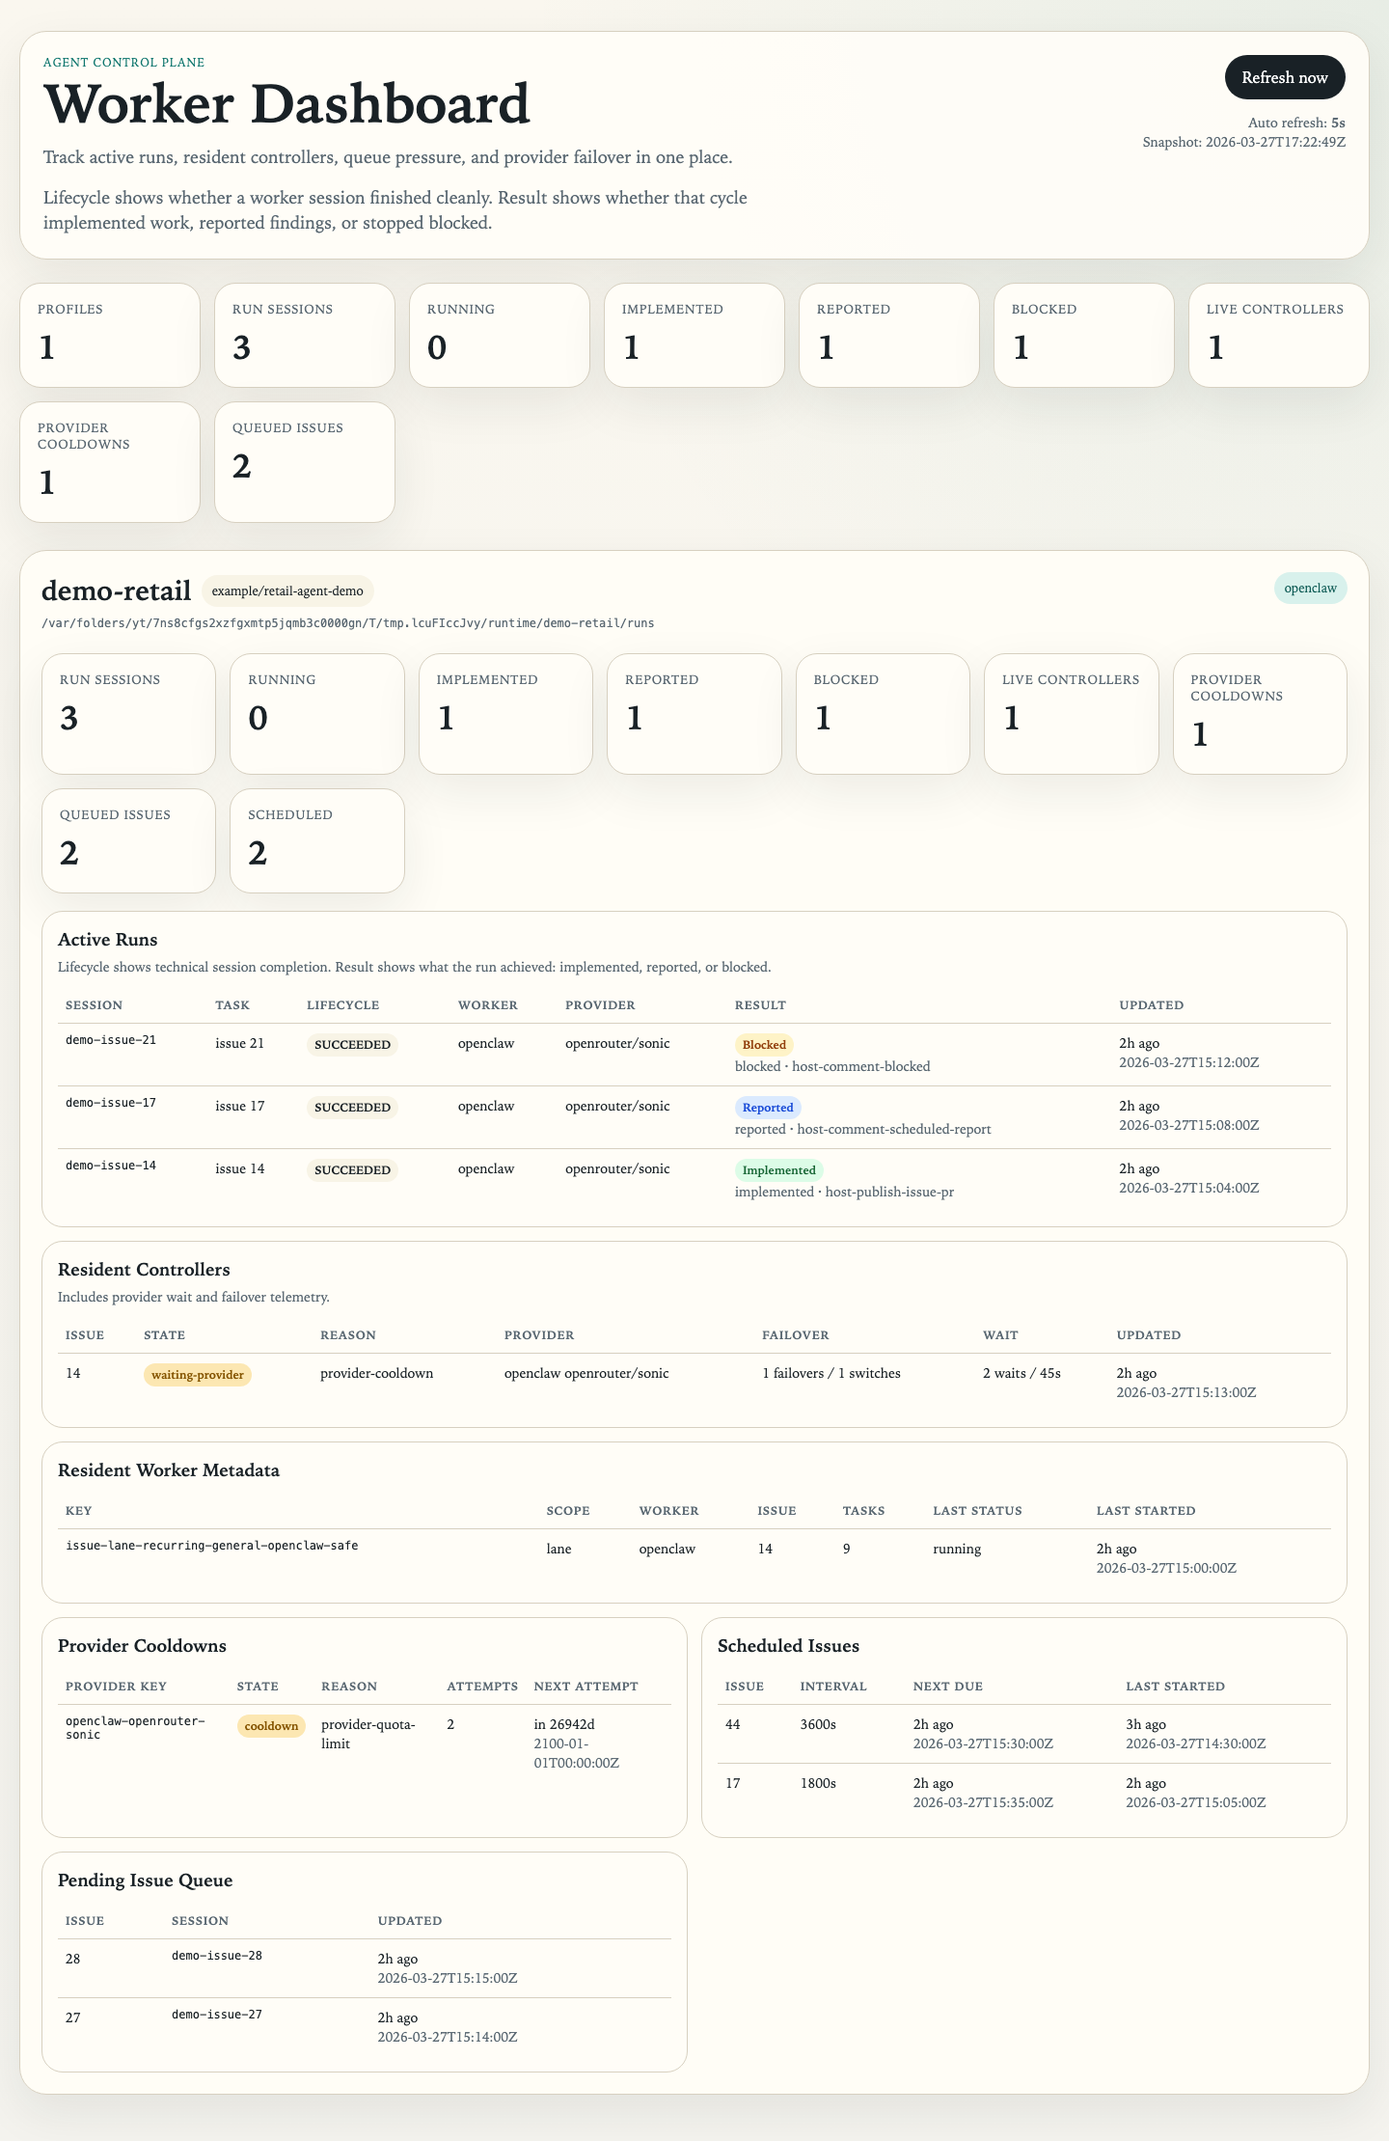
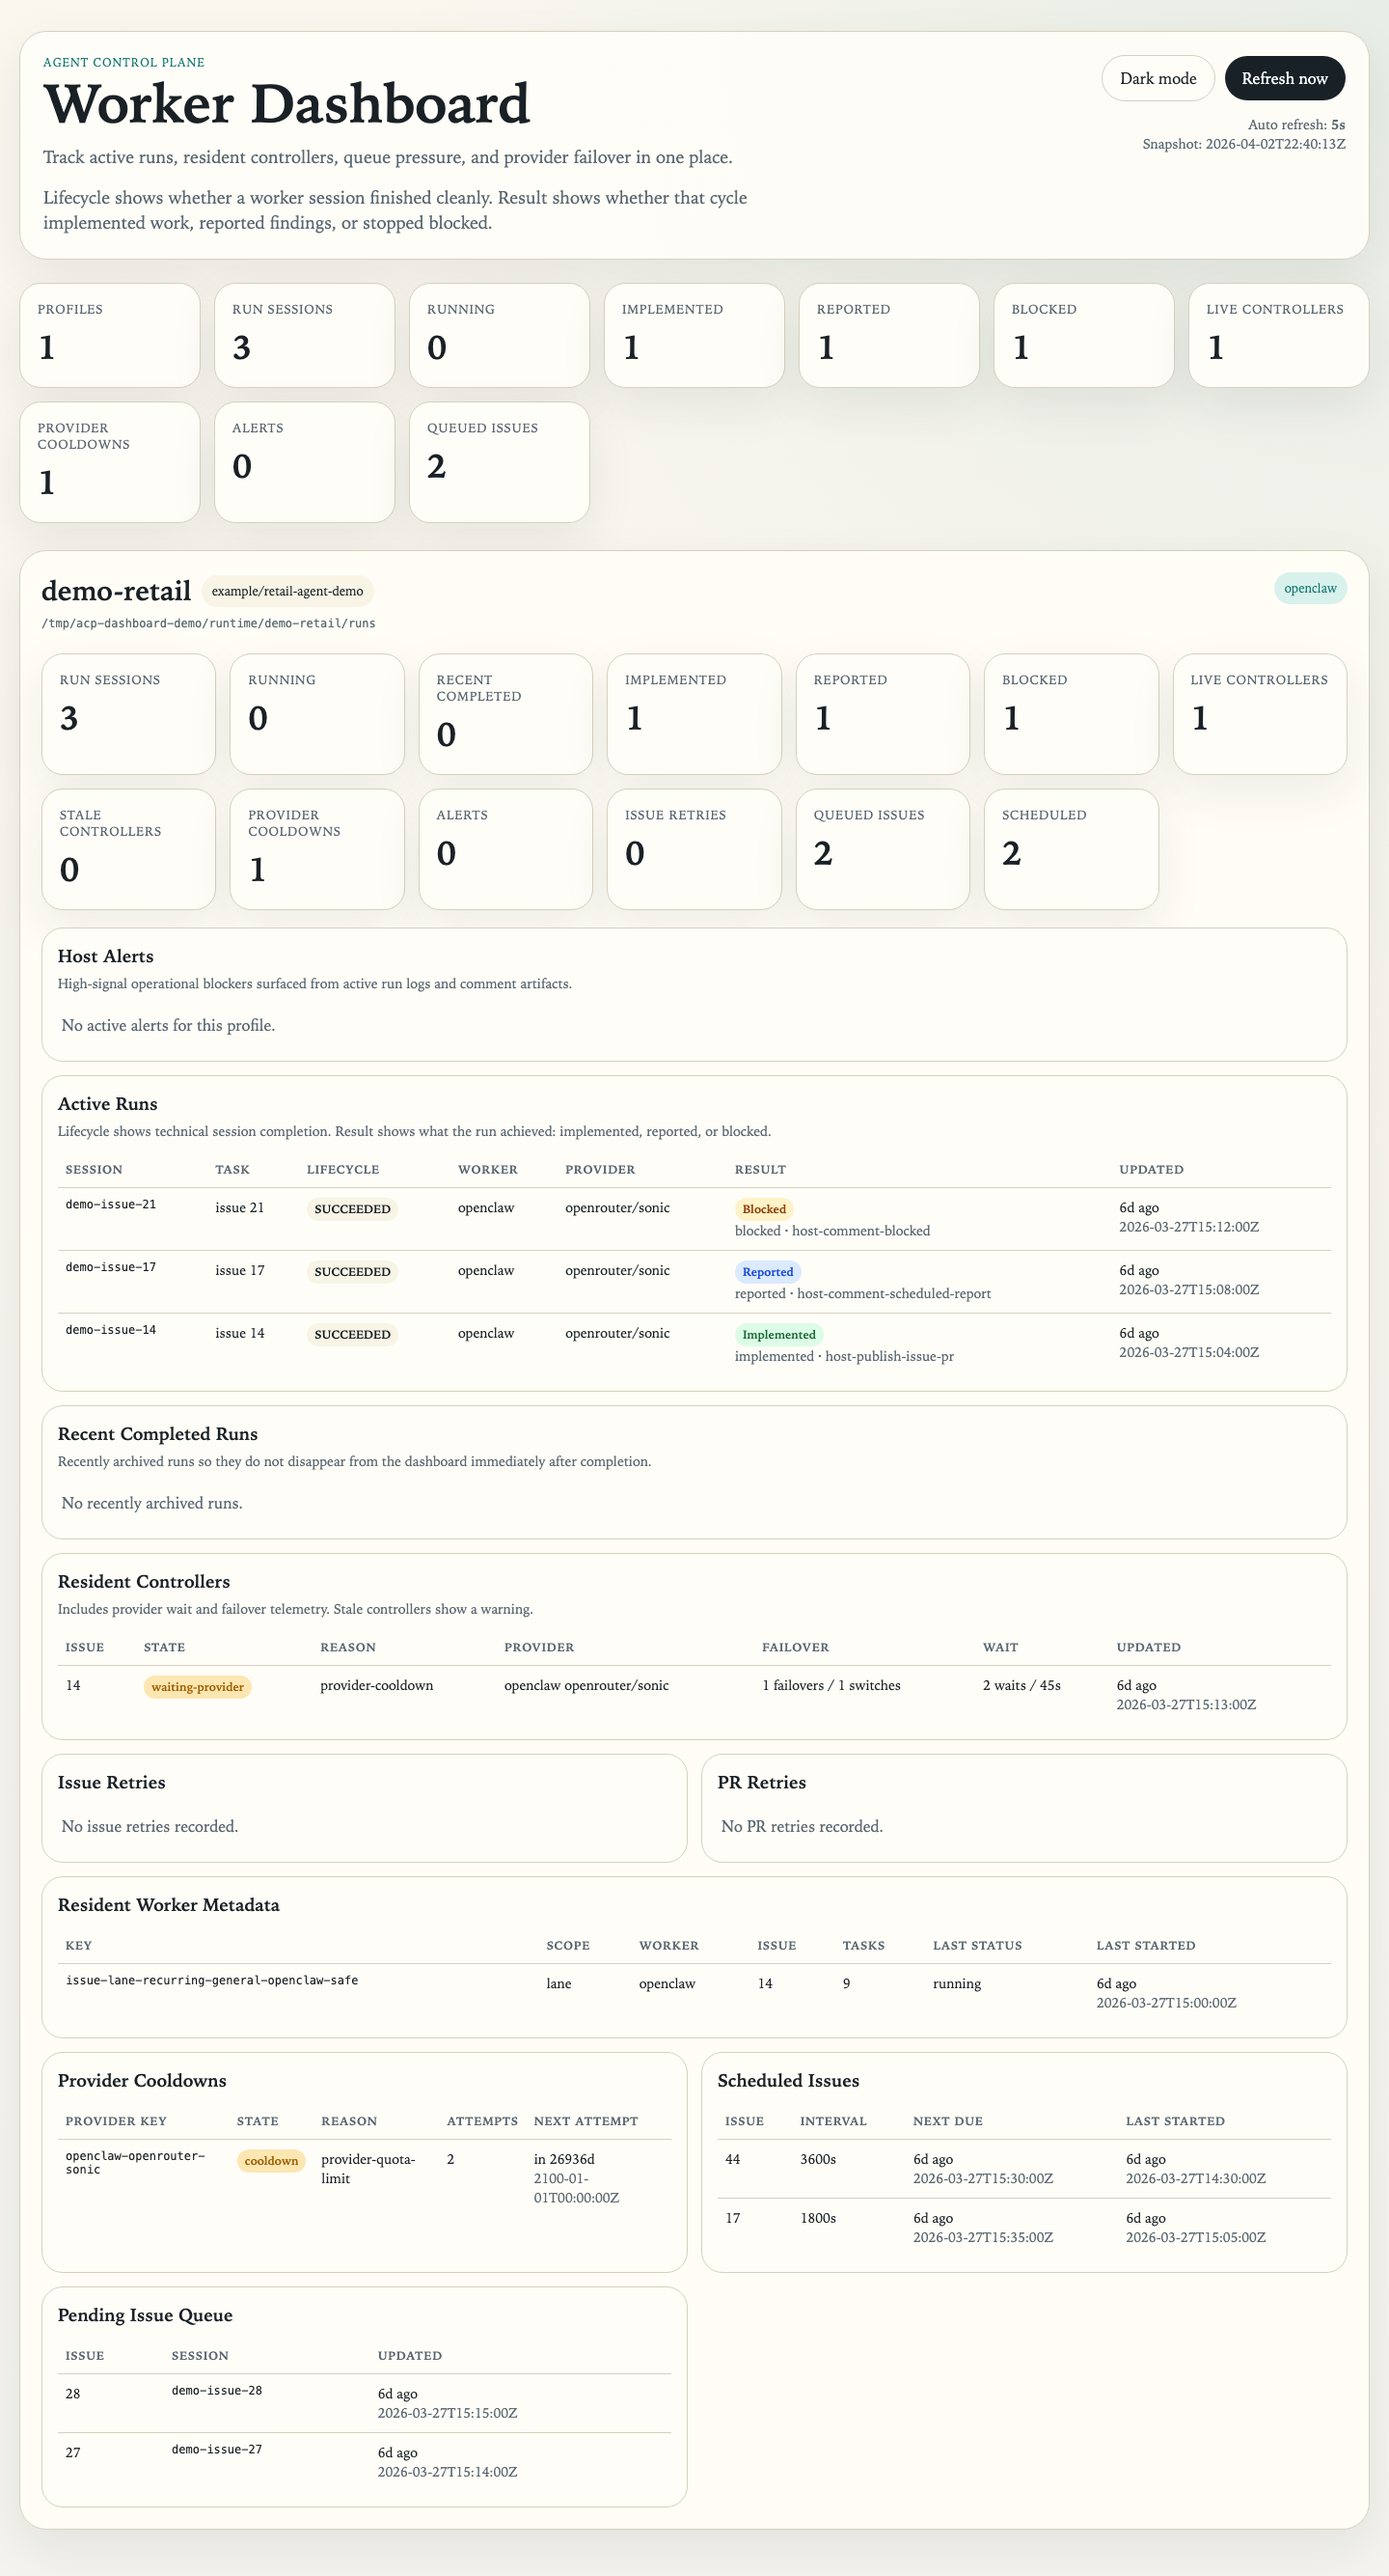
Add dark mode to dashboard and refresh demo media with clean paths
- Add dark/light mode toggle to the dashboard with localStorage persistence
  and system-preference detection (app.js, index.html, styles.css)
- Fix render-dashboard-demo-media.sh to use fixed /tmp/acp-dashboard-demo path
  instead of mktemp — removes macOS user-specific temp hash from demo screenshots
- Regenerate assets/readme/dashboard-demo.png and dashboard-demo.gif with the
  clean path and updated dashboard UI

diff --git a/tools/dashboard/styles.css b/tools/dashboard/styles.css
@@ -12,6 +12,56 @@
   --danger: #b42318;
   --danger-soft: #fdd8d2;
   --shadow: 0 18px 50px rgba(25, 33, 38, 0.08);
+  --button-bg: var(--ink);
+  --button-ink: #ffffff;
+  --button-hover: #0f1720;
+  --hero-bg: rgba(255, 253, 247, 0.92);
+  --profile-bg: rgba(255, 253, 247, 0.94);
+  --body-gradient-top: rgba(15, 118, 110, 0.08);
+  --body-gradient-bottom: #faf7ef;
+  --theme-toggle-bg: var(--panel);
+  --theme-toggle-ink: var(--ink);
+  --theme-toggle-line: var(--line);
+  --theme-toggle-hover: var(--panel-strong);
+  --reported-soft: #dbeafe;
+  --reported-ink: #1d4ed8;
+  --implemented-soft: #dcfce7;
+  --implemented-ink: #166534;
+  --blocked-soft: #fef3c7;
+  --blocked-ink: #92400e;
+}
+
+:root[data-theme="dark"] {
+  --bg: #0d1418;
+  --panel: #142026;
+  --panel-strong: #1a2a31;
+  --ink: #ebf1f3;
+  --muted: #9ab0bb;
+  --line: #2a3c44;
+  --accent: #5ad4c7;
+  --accent-soft: #183d3a;
+  --warn: #f4c35f;
+  --warn-soft: #4d3a12;
+  --danger: #ff8a80;
+  --danger-soft: #4a2220;
+  --shadow: 0 24px 60px rgba(0, 0, 0, 0.32);
+  --button-bg: #ebf1f3;
+  --button-ink: #0d1418;
+  --button-hover: #d7e2e6;
+  --hero-bg: rgba(20, 32, 38, 0.92);
+  --profile-bg: rgba(20, 32, 38, 0.94);
+  --body-gradient-top: rgba(90, 212, 199, 0.12);
+  --body-gradient-bottom: #10181d;
+  --theme-toggle-bg: #1d2d35;
+  --theme-toggle-ink: #ebf1f3;
+  --theme-toggle-line: #35505b;
+  --theme-toggle-hover: #23363f;
+  --reported-soft: #1b3552;
+  --reported-ink: #9fc8ff;
+  --implemented-soft: #173a2b;
+  --implemented-ink: #85ddb1;
+  --blocked-soft: #4a3711;
+  --blocked-ink: #f4c35f;
 }
 
 * {
@@ -22,8 +72,8 @@ body {
   margin: 0;
   font-family: "Iowan Old Style", "Palatino Linotype", "Book Antiqua", serif;
   background:
-    radial-gradient(circle at top right, rgba(15, 118, 110, 0.08), transparent 34%),
-    linear-gradient(180deg, #faf7ef 0%, var(--bg) 100%);
+    radial-gradient(circle at top right, var(--body-gradient-top), transparent 34%),
+    linear-gradient(180deg, var(--body-gradient-bottom) 0%, var(--bg) 100%);
   color: var(--ink);
 }
 
@@ -41,7 +91,7 @@ body {
   padding: 24px;
   border: 1px solid var(--line);
   border-radius: 28px;
-  background: rgba(255, 253, 247, 0.92);
+  background: var(--hero-bg);
   box-shadow: var(--shadow);
 }
 
@@ -75,19 +125,42 @@ body {
   align-items: flex-end;
 }
 
+.hero-controls {
+  display: flex;
+  gap: 10px;
+  align-items: center;
+  flex-wrap: wrap;
+  justify-content: flex-end;
+}
+
 button {
   appearance: none;
   border: 0;
   border-radius: 999px;
   padding: 12px 18px;
   font: inherit;
-  background: var(--ink);
-  color: white;
+  background: var(--button-bg);
+  color: var(--button-ink);
   cursor: pointer;
+  transition: background 140ms ease, color 140ms ease, border-color 140ms ease, transform 140ms ease;
 }
 
 button:hover {
-  background: #0f1720;
+  background: var(--button-hover);
+}
+
+button:active {
+  transform: translateY(1px);
+}
+
+#theme-toggle {
+  background: var(--theme-toggle-bg);
+  color: var(--theme-toggle-ink);
+  border: 1px solid var(--theme-toggle-line);
+}
+
+#theme-toggle:hover {
+  background: var(--theme-toggle-hover);
 }
 
 .meta {
@@ -135,7 +208,7 @@ button:hover {
   padding: 22px;
   border-radius: 28px;
   border: 1px solid var(--line);
-  background: rgba(255, 253, 247, 0.94);
+  background: var(--profile-bg);
   box-shadow: var(--shadow);
 }
 
@@ -183,12 +256,12 @@ button:hover {
 
 .badge.good {
   background: var(--accent-soft);
-  color: #0d5a54;
+  color: var(--accent);
 }
 
 .badge.warn {
   background: var(--warn-soft);
-  color: #855500;
+  color: var(--warn);
 }
 
 .badge.danger {
@@ -243,8 +316,8 @@ button:hover {
 }
 
 .alert-card.warn {
-  border-color: #e7c76d;
-  background: #fff6dd;
+  border-color: color-mix(in srgb, var(--warn) 45%, var(--line));
+  background: color-mix(in srgb, var(--warn-soft) 82%, var(--panel) 18%);
 }
 
 .alert-card h4 {
@@ -323,7 +396,7 @@ th {
 .status-pill.launching,
 .status-pill.reconciling {
   background: var(--accent-soft);
-  color: #0d5a54;
+  color: var(--accent);
 }
 
 .status-pill.waiting-provider,
@@ -332,7 +405,7 @@ th {
 .status-pill.idle,
 .status-pill.sleeping {
   background: var(--warn-soft);
-  color: #855500;
+  color: var(--warn);
 }
 
 .status-pill.FAILED,
@@ -343,19 +416,19 @@ th {
 }
 
 .status-pill.implemented {
-  background: #dcfce7;
-  color: #166534;
+  background: var(--implemented-soft);
+  color: var(--implemented-ink);
 }
 
 .status-pill.reported,
 .status-pill.completed {
-  background: #dbeafe;
-  color: #1d4ed8;
+  background: var(--reported-soft);
+  color: var(--reported-ink);
 }
 
 .status-pill.blocked {
-  background: #fef3c7;
-  color: #92400e;
+  background: var(--blocked-soft);
+  color: var(--blocked-ink);
 }
 
 .status-pill.failed,
@@ -366,7 +439,7 @@ th {
 
 .status-pill.running {
   background: var(--accent-soft);
-  color: #0d5a54;
+  color: var(--accent);
 }
 
 .empty-state {
@@ -385,6 +458,10 @@ th {
     align-items: flex-start;
     justify-content: flex-start;
     text-align: left;
+  }
+
+  .hero-controls {
+    justify-content: flex-start;
   }
 
   .panel.half,

diff --git a/tools/dashboard/app.js b/tools/dashboard/app.js
@@ -1,9 +1,56 @@
 const refreshButton = document.querySelector("#refresh-button");
+const themeToggleButton = document.querySelector("#theme-toggle");
 const generatedAtNode = document.querySelector("#generated-at");
 const overviewNode = document.querySelector("#overview");
 const profilesNode = document.querySelector("#profiles");
 const seenAlertIds = new Set();
 let notificationPermissionRequested = false;
+const THEME_STORAGE_KEY = "acp-dashboard-theme";
+
+function systemPrefersDark() {
+  return typeof window.matchMedia === "function" && window.matchMedia("(prefers-color-scheme: dark)").matches;
+}
+
+function currentThemePreference() {
+  try {
+    const stored = window.localStorage.getItem(THEME_STORAGE_KEY);
+    if (stored === "light" || stored === "dark") return stored;
+  } catch (_error) {
+    // Ignore storage access issues and fall back to system preference.
+  }
+  return systemPrefersDark() ? "dark" : "light";
+}
+
+function updateThemeToggleLabel(theme) {
+  if (!themeToggleButton) return;
+  const nextTheme = theme === "dark" ? "light" : "dark";
+  const label = nextTheme === "dark" ? "Dark mode" : "Light mode";
+  themeToggleButton.textContent = label;
+  themeToggleButton.setAttribute("aria-label", `Switch to ${label.toLowerCase()}`);
+}
+
+function applyTheme(theme) {
+  document.documentElement.dataset.theme = theme;
+  updateThemeToggleLabel(theme);
+}
+
+function persistTheme(theme) {
+  try {
+    window.localStorage.setItem(THEME_STORAGE_KEY, theme);
+  } catch (_error) {
+    // Ignore storage access issues.
+  }
+}
+
+function initializeTheme() {
+  applyTheme(currentThemePreference());
+  if (!themeToggleButton) return;
+  themeToggleButton.addEventListener("click", () => {
+    const nextTheme = document.documentElement.dataset.theme === "dark" ? "light" : "dark";
+    applyTheme(nextTheme);
+    persistTheme(nextTheme);
+  });
+}
 
 function relativeTime(input) {
   if (!input) return "n/a";
@@ -456,6 +503,7 @@ refreshButton.addEventListener("click", () => {
   void loadSnapshot();
 });
 
+initializeTheme();
 void loadSnapshot();
 window.setInterval(() => {
   void loadSnapshot();

diff --git a/tools/dashboard/index.html b/tools/dashboard/index.html
@@ -3,6 +3,7 @@
   <head>
     <meta charset="utf-8" />
     <meta name="viewport" content="width=device-width, initial-scale=1" />
+    <meta name="color-scheme" content="light dark" />
     <title>ACP Worker Dashboard</title>
     <link rel="stylesheet" href="./styles.css" />
   </head>
@@ -20,7 +21,10 @@
           </p>
         </div>
         <div class="hero-actions">
-          <button id="refresh-button" type="button">Refresh now</button>
+          <div class="hero-controls">
+            <button id="theme-toggle" type="button" aria-label="Toggle dark mode">Dark mode</button>
+            <button id="refresh-button" type="button">Refresh now</button>
+          </div>
           <div class="meta">
             <div>Auto refresh: <strong>5s</strong></div>
             <div id="generated-at">Loading snapshot...</div>
